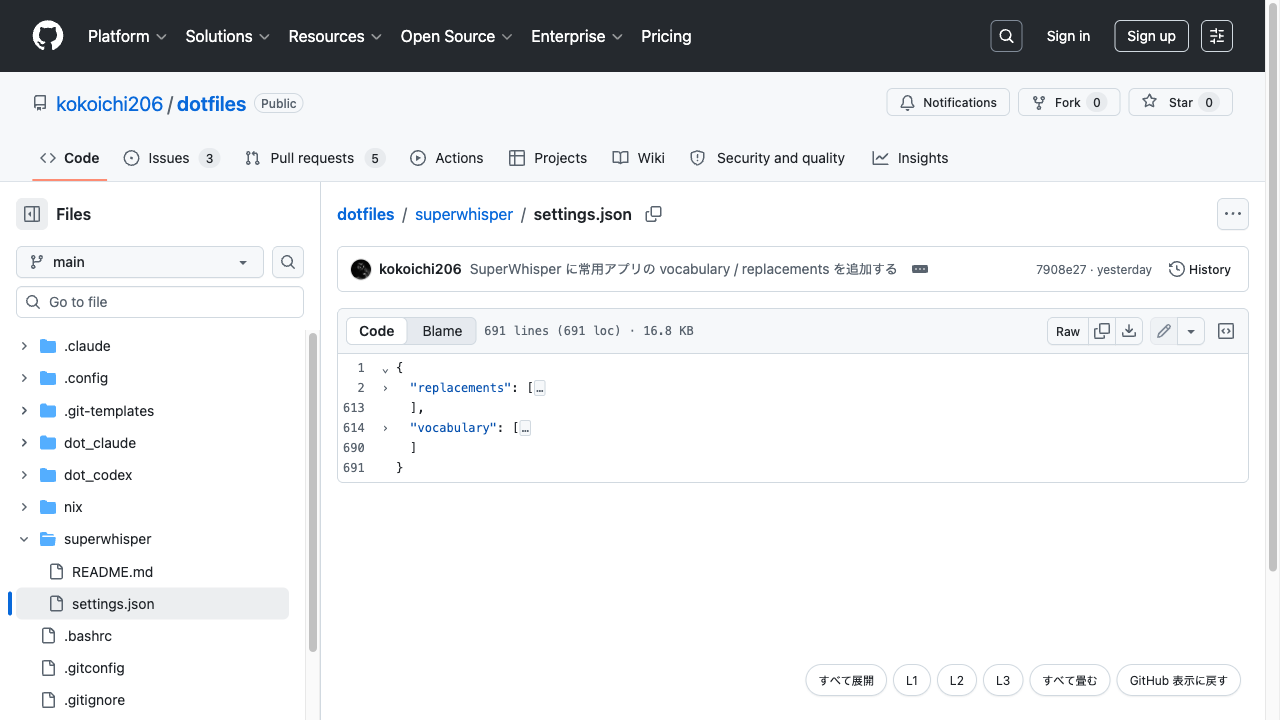
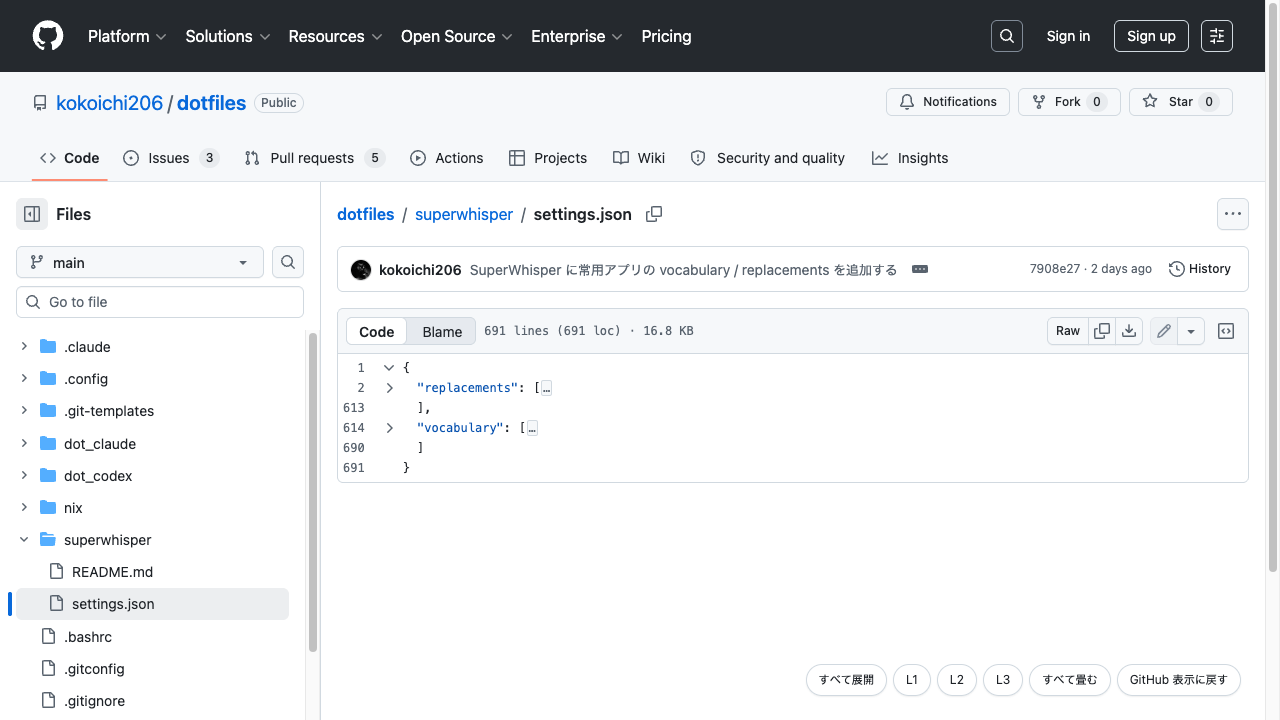
折りたたみマーカーを文字グリフから本家と同じ octicon SVG に変更
⌄ / › はフォント依存で本家 chevron より角度が急に見えるため、
primer/octicons の chevron-down-16 / chevron-right-16 を markerDOM で描画する。
GitHub 側 CSP (Trusted Types) を踏まないよう innerHTML でなく DOM API で組み立てる。

diff --git a/src/viewer/create-viewer.ts b/src/viewer/create-viewer.ts
@@ -20,6 +20,34 @@ export interface FoldableViewer {
   destroy: () => void;
 }
 
+/* 折りたたみマーカーは GitHub 本家と同じ octicon (chevron-down-16 / chevron-right-16) を使う。
+   文字グリフ (⌄ 等) はフォント依存で角度が急になるため使わない。
+   path は https://github.com/primer/octicons (MIT) の icons/chevron-*-16.svg と揃えること */
+const OCTICON_CHEVRON_DOWN =
+  "M12.78 5.22a.749.749 0 0 1 0 1.06l-4.25 4.25a.749.749 0 0 1-1.06 0L3.22 6.28a.749.749 0 1 1 1.06-1.06L8 8.939l3.72-3.719a.749.749 0 0 1 1.06 0Z";
+const OCTICON_CHEVRON_RIGHT =
+  "M6.22 3.22a.75.75 0 0 1 1.06 0l4.25 4.25a.75.75 0 0 1 0 1.06l-4.25 4.25a.751.751 0 0 1-1.042-.018.751.751 0 0 1-.018-1.042L9.94 8 6.22 4.28a.75.75 0 0 1 0-1.06Z";
+
+/* innerHTML は GitHub 側の CSP (Trusted Types) に弾かれうるため DOM API で組み立てる */
+const foldMarker = (open: boolean): HTMLElement => {
+  const SVG_NS = "http://www.w3.org/2000/svg";
+  const svg = document.createElementNS(SVG_NS, "svg");
+  svg.setAttribute("width", "16");
+  svg.setAttribute("height", "16");
+  svg.setAttribute("viewBox", "0 0 16 16");
+  svg.setAttribute("aria-hidden", "true");
+
+  const path = document.createElementNS(SVG_NS, "path");
+  path.setAttribute("fill", "currentColor");
+  path.setAttribute("d", open ? OCTICON_CHEVRON_DOWN : OCTICON_CHEVRON_RIGHT);
+  svg.appendChild(path);
+
+  const marker = document.createElement("span");
+  marker.className = "cm-foldMarker";
+  marker.appendChild(svg);
+  return marker;
+};
+
 /* 配色は GitHub がページに公開している CSS 変数を参照し、テーマ切替に自動追従する。
    フォント・行高・ガター幅は本家コードビューの実測値 (12px/20px, 行番号 40px + 右 16px) に合わせる */
 const baseTheme = EditorView.theme({
@@ -42,6 +70,17 @@ const baseTheme = EditorView.theme({
   ".cm-lineNumbers .cm-gutterElement": {
     minWidth: "40px",
     paddingRight: "16px",
+  },
+  ".cm-foldGutter .cm-gutterElement": {
+    display: "flex",
+    alignItems: "center",
+    justifyContent: "center",
+    width: "16px",
+    cursor: "pointer",
+  },
+  ".cm-foldMarker": {
+    display: "inline-flex",
+    alignItems: "center",
   },
   ".cm-foldPlaceholder": {
     backgroundColor: "var(--bgColor-muted, #f6f8fa)",
@@ -79,8 +118,7 @@ export function createViewer(
         }),
         indentFold,
         foldGutter({
-          openText: "⌄",
-          closedText: "›",
+          markerDOM: foldMarker,
         }),
         languageForFilename(filename) ?? [],
         baseTheme,
